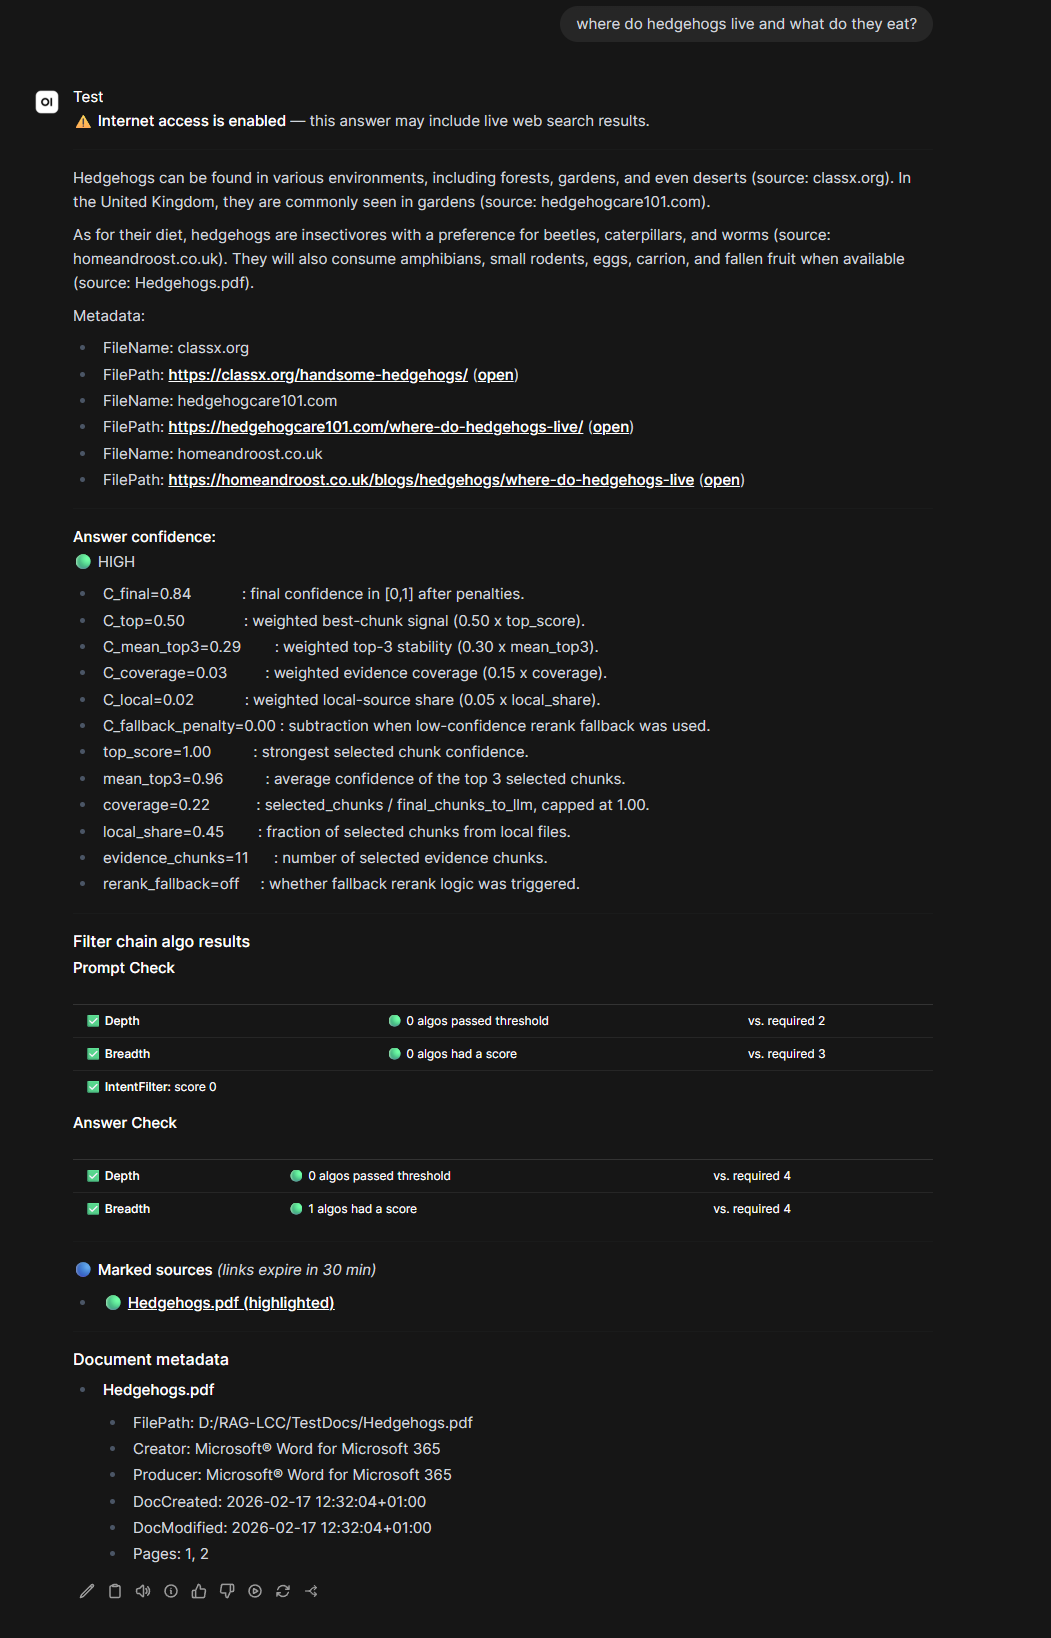
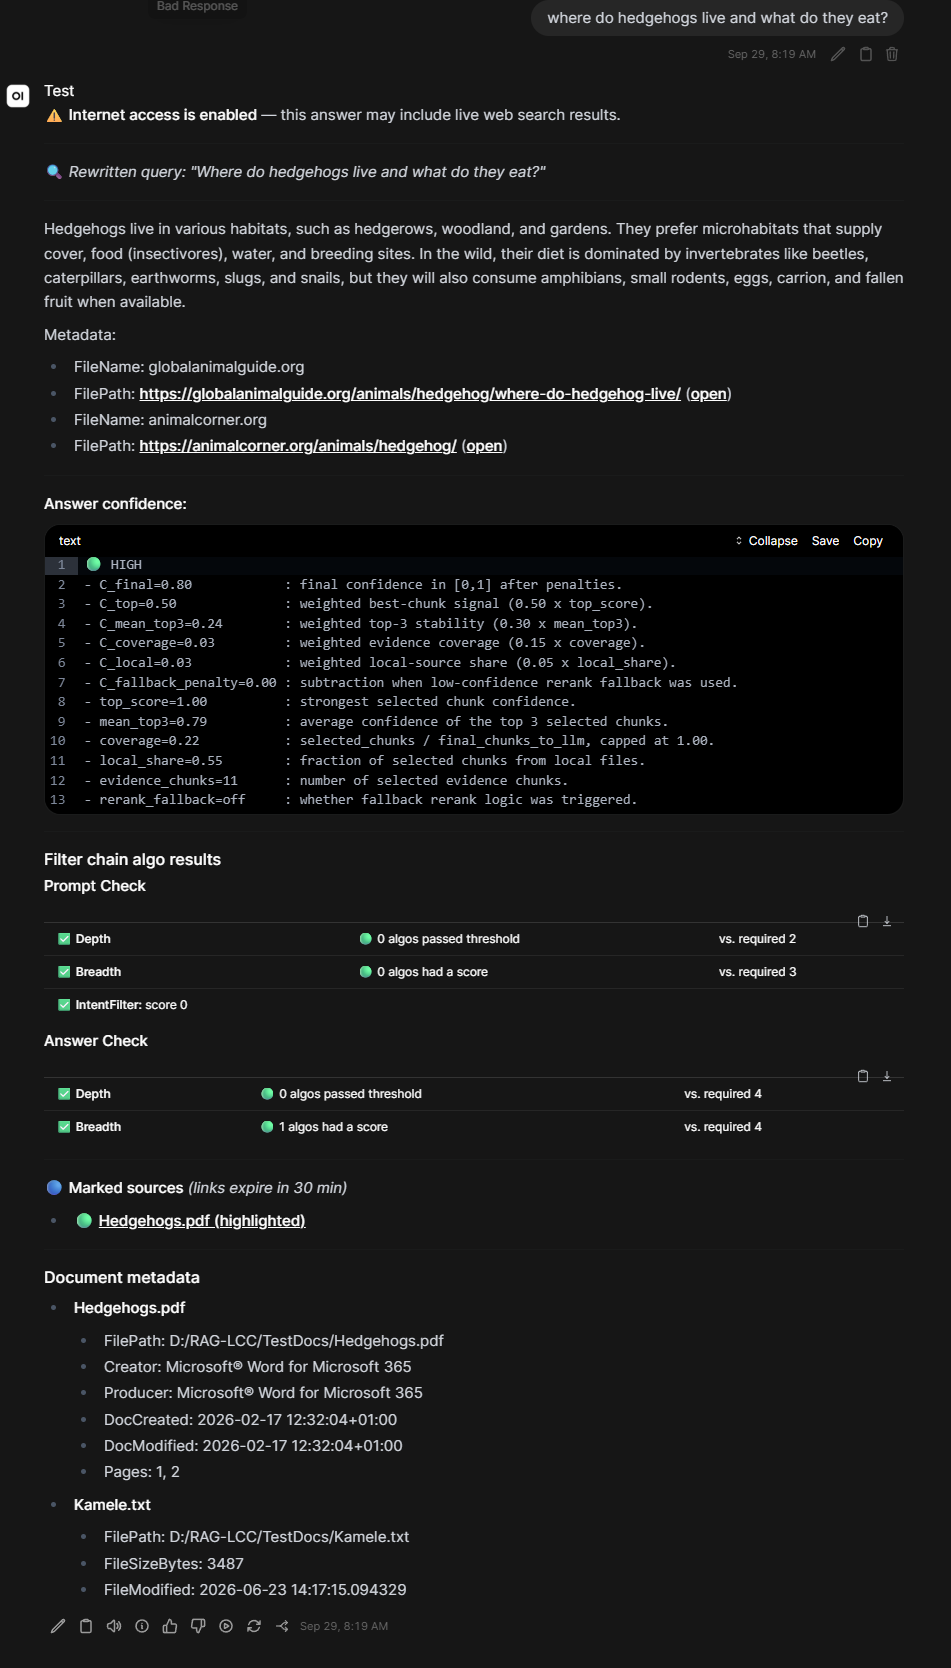
Algin confidence output when queried from Open WebUI
Algin confidence output when queried from Open WebUI

diff --git a/src/Chat/Chatter.py b/src/Chat/Chatter.py
@@ -83,9 +83,9 @@ from Globals.Session import Session
 from Gui.Colors import CYAN, GREEN, ORANGE, RED, RESET, YELLOW
 from Gui.PrettyWriter import PrettyWriter
 from Gui.Symbols import Symbols
+from Helpers.CSVWriter import CSVWriter
 from Helpers.ConfidenceHelper import ConfidenceHelper
 from Helpers.ConfidenceLogger import ConfidenceLogger
-from Helpers.CSVWriter import CSVWriter
 from Helpers.FileUtils import FileUtils
 from Helpers.Helpers import Helpers
 from Helpers.SourcePathLinkifier import SourcePathLinkifier
@@ -416,7 +416,10 @@ class Chatter:
             if chunk_texts:
                 cli_answer = self._apply_answer_grounding(answer, chunk_texts)
 
-        confidence_notice = self._build_answer_confidence_notice(session)
+        confidence_notice = self._build_answer_confidence_notice(
+            session,
+            monospace=apiChunkHandler is not None,
+        )
         if confidence_notice:
             cli_confidence_notice = self._build_answer_confidence_notice_cli(session)
             answer.content = answer.content + confidence_notice
@@ -429,7 +432,8 @@ class Chatter:
                 step_name="final answer confidence",
                 status="executed",
                 confidence_level=str(
-                    getattr(session, "answer_confidence_level", "UNKNOWN") or "UNKNOWN"
+                    getattr(session, "answer_confidence_level", "UNKNOWN")
+                    or "UNKNOWN"
                 ).upper(),
                 confidence_score=score,
                 detail=summary,
@@ -457,9 +461,7 @@ class Chatter:
             chosen = getattr(session, "last_chosen_chunks", [])
             if chosen:
                 try:
-                    self.rag._mark_sources(
-                        session, chosen
-                    )  # pyright: ignore[reportPrivateUsage]
+                    self.rag._mark_sources(session, chosen)  # pyright: ignore[reportPrivateUsage]
                 except Exception as exc:
                     self.pretty.write(
                         "W", "VisualMarker", f"Visual marking failed: {exc}"
@@ -518,9 +520,7 @@ class Chatter:
     def _resolve_answer_confidence_payload(session: Session) -> tuple[str, str]:
         """Return (level, payload) for answer confidence notices."""
         summary = str(getattr(session, "answer_confidence_summary", "") or "").strip()
-        level = (
-            str(getattr(session, "answer_confidence_level", "") or "").strip().upper()
-        )
+        level = str(getattr(session, "answer_confidence_level", "") or "").strip().upper()
         score_obj = getattr(session, "answer_confidence_score", None)
 
         if summary:
@@ -537,11 +537,18 @@ class Chatter:
             return "", ""
 
     @staticmethod
-    def _build_answer_confidence_notice(session: Session) -> str:
+    def _build_answer_confidence_notice(
+        session: Session,
+        *,
+        monospace: bool = False,
+    ) -> str:
         """Return a Markdown block with the final answer confidence level."""
         _, payload = Chatter._resolve_answer_confidence_payload(session)
         if not payload:
             return ""
+
+        if monospace:
+            return f"\n\n---\n\n**Answer confidence:**\n```text\n{payload}\n```"
 
         return f"\n\n---\n\n**Answer confidence:**\n{payload}"
 
@@ -571,7 +578,9 @@ class Chatter:
     @staticmethod
     def _build_grounding_skipped_short_answer_notice() -> str:
         """Return notice prepended when grounding is skipped for short answers."""
-        return f"{Symbols.sym_warning()} Grounding skipped: answer is too short for reliable sentence-level grounding.\n\n"
+        return (
+            f"{Symbols.sym_warning()} Grounding skipped: answer is too short for reliable sentence-level grounding.\n\n"
+        )
 
     @staticmethod
     def _extract_answer_section(text: str) -> str:
@@ -613,7 +622,9 @@ class Chatter:
             if not paragraph:
                 continue
             for sentence in _re.split(r"(?<=[.!?])\s+", paragraph):
-                token_count = len(_re.findall(r"\w+", sentence, flags=_re.UNICODE))
+                token_count = len(
+                    _re.findall(r"\w+", sentence, flags=_re.UNICODE)
+                )
                 if token_count > 0:
                     token_counts.append(token_count)
 
@@ -768,19 +779,15 @@ class Chatter:
             return True
 
         retrieval_lang = str(getattr(session, "retrieval_language", "") or "").lower()
-        answer_lang = (
-            str(
-                self.fileUtils.get_user_text_language(
-                    answer_body,
-                    output="nltk",
-                    native_lang=response_language,
-                    stage_label="answer_grounding_language",
-                )
-                or ""
+        answer_lang = str(
+            self.fileUtils.get_user_text_language(
+                answer_body,
+                output="nltk",
+                native_lang=response_language,
+                stage_label="answer_grounding_language",
             )
-            .strip()
-            .lower()
-        )
+            or ""
+        ).strip().lower()
         self._drain_lang_detection_confidence_events(session)
 
         translation_targets: list[tuple[str, str]] = []
